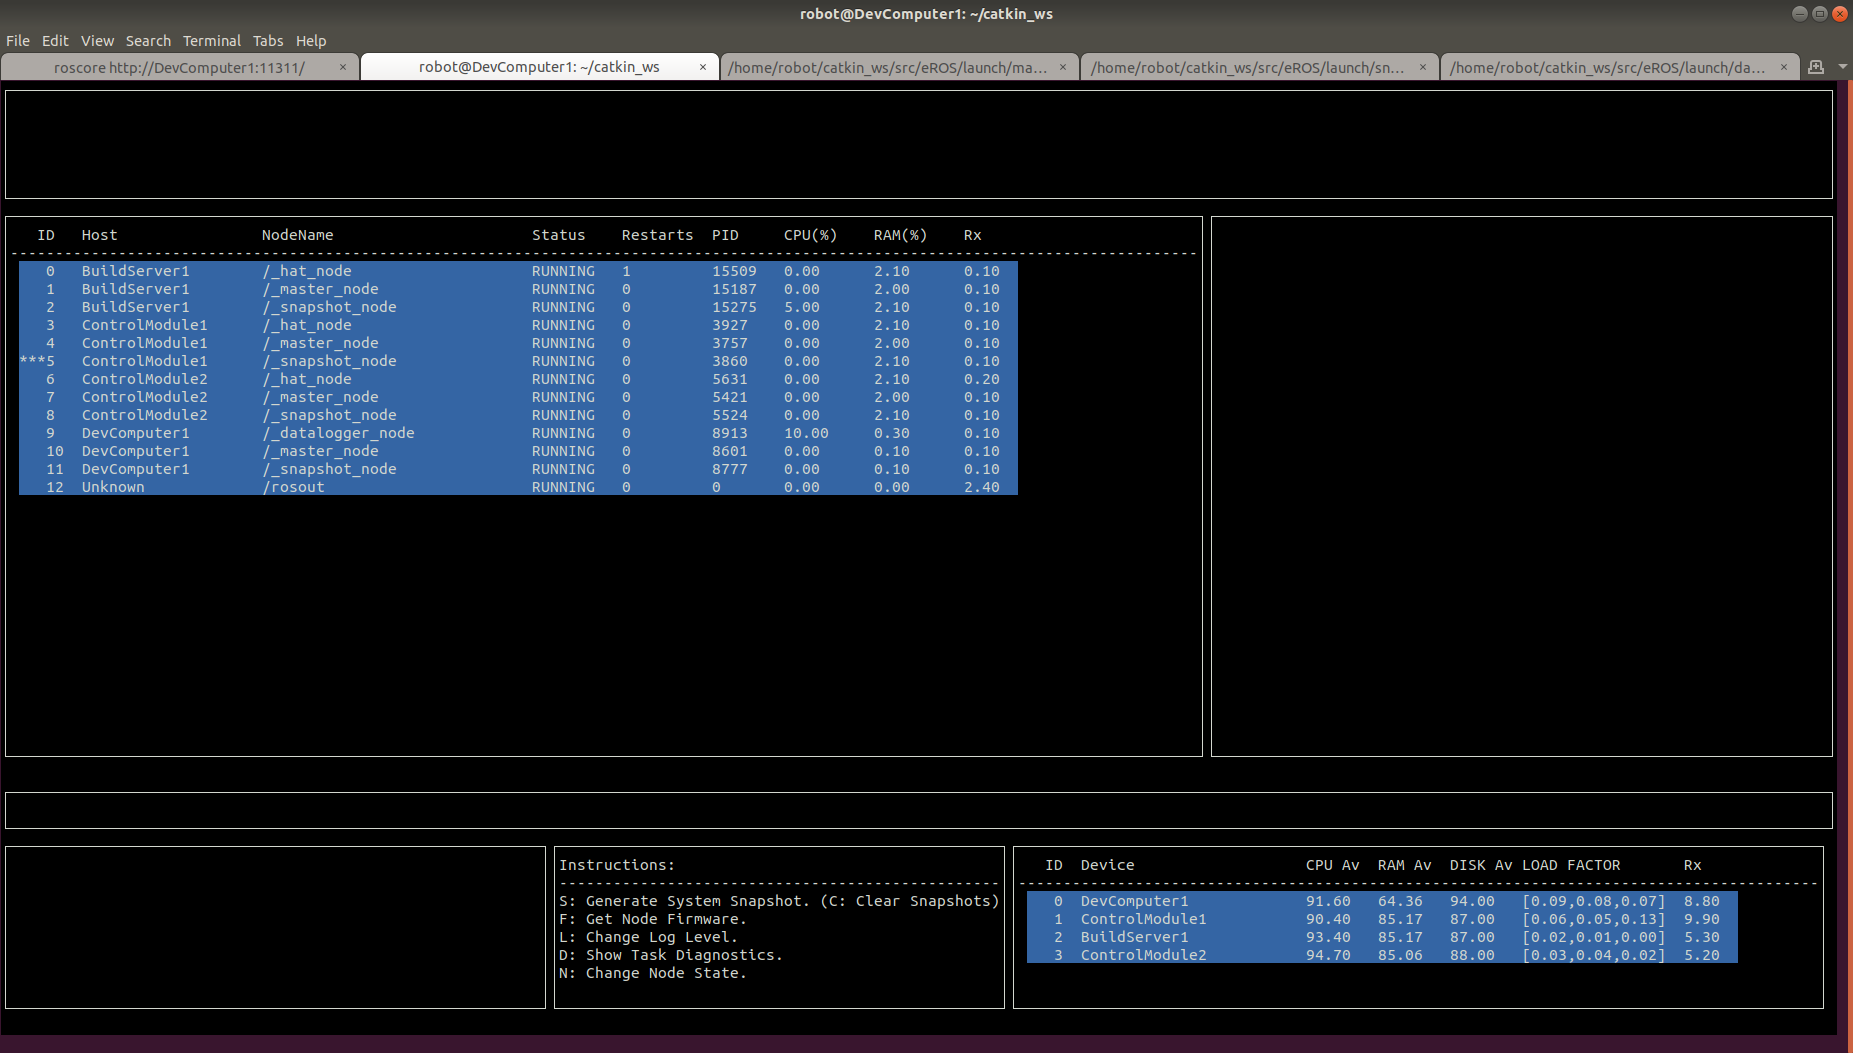
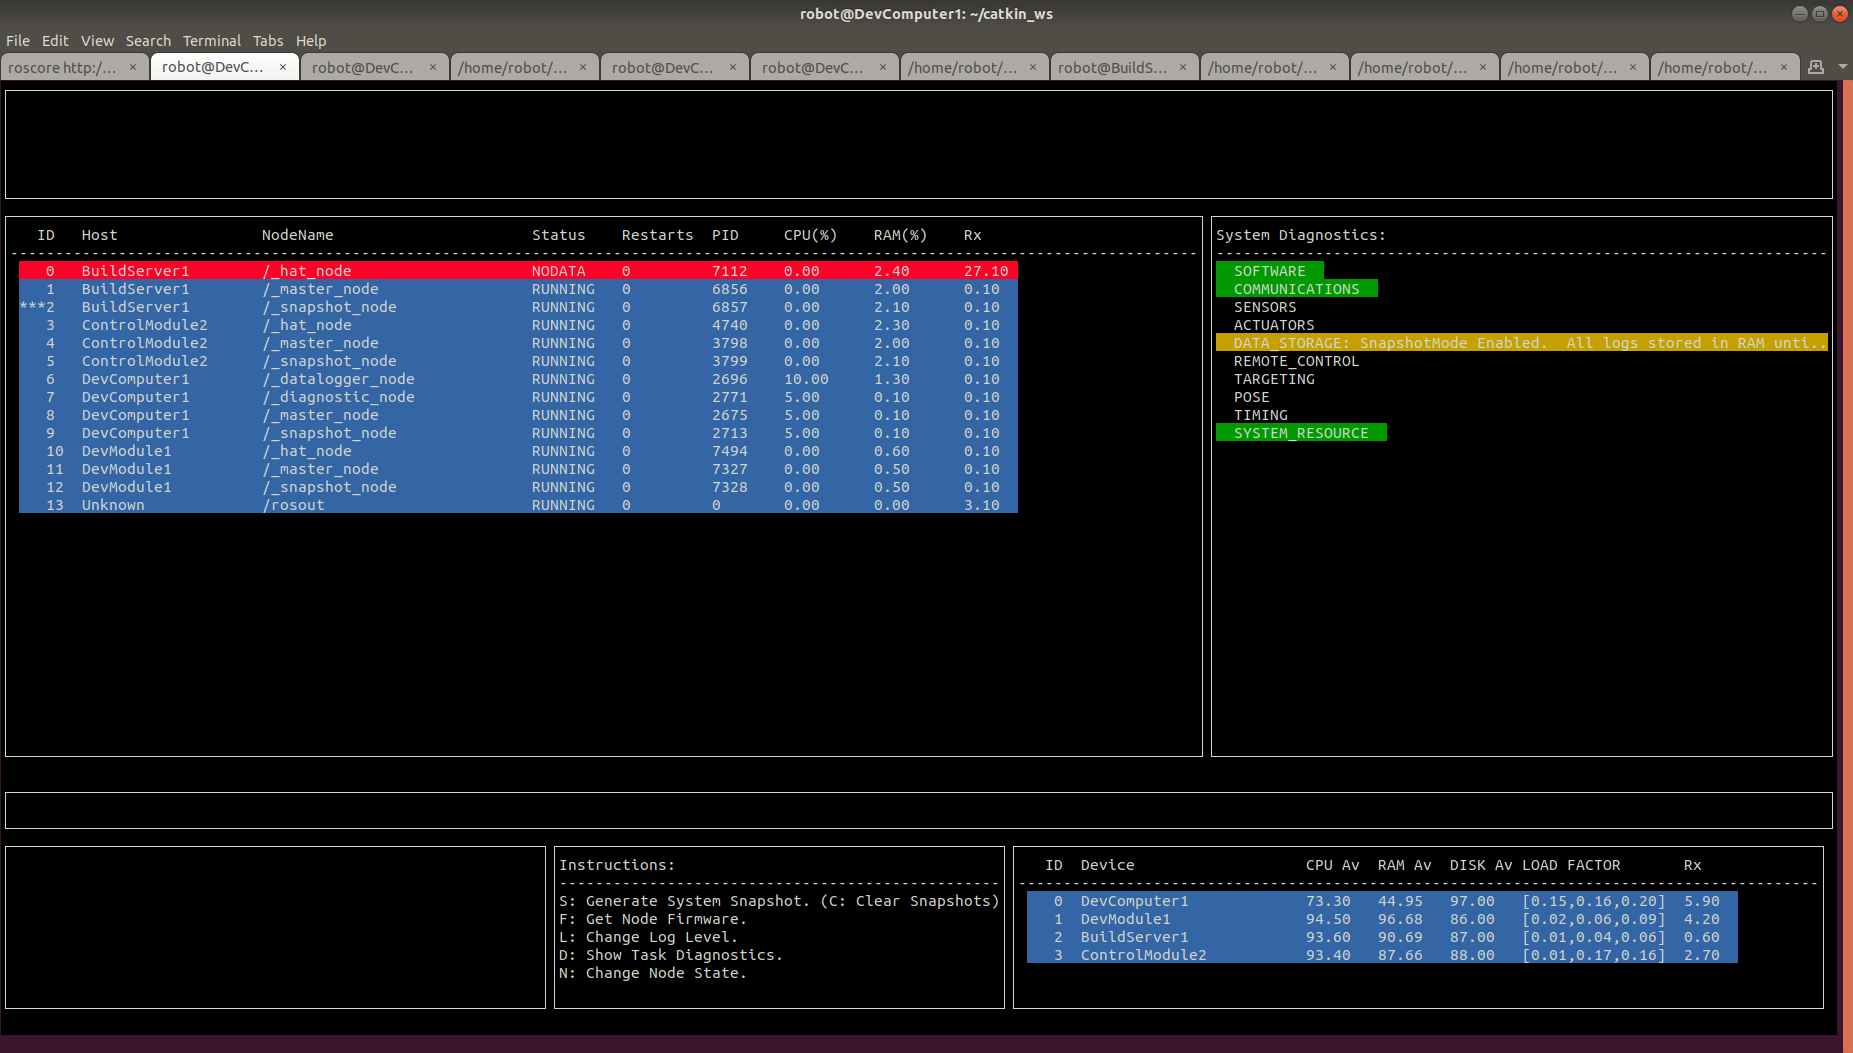
Work Complete. Closed.

diff --git a/nodes/SystemMonitor/SystemMonitorProcess.cpp b/nodes/SystemMonitor/SystemMonitorProcess.cpp
@@ -370,7 +370,12 @@ Diagnostic::DiagnosticDefinition SystemMonitorProcess::update_instructionwindow(
         if (change_log_level_mode == true) {
             instruction_string.push_back("  1,2,3,4,5,6: Select Log Level.");
         }
-        instruction_string.push_back("D: Show Task Diagnostics.");
+        if (show_task_diagnostic_mode == false) {
+            instruction_string.push_back("D: Show Task Diagnostics.");
+        }
+        else {
+            instruction_string.push_back("D: Show System Diagnostics.");
+        }
         instruction_string.push_back("N: Change Node State.");
         if (change_nodestate_mode == true) {
             instruction_string.push_back("  1-9: Select Node State.");
@@ -380,6 +385,7 @@ Diagnostic::DiagnosticDefinition SystemMonitorProcess::update_instructionwindow(
                       i + 3,
                       1,
                       instruction_string.at(i).c_str());
+            wclrtoeol(window_it->second.get_window_reference());
         }
     }
     wclrtobot(window_it->second.get_window_reference());
@@ -411,8 +417,75 @@ Diagnostic::DiagnosticDefinition SystemMonitorProcess::update_diagnosticwindow(
     std::map<std::string, WindowManager>::iterator window_it) {
     Diagnostic::DiagnosticDefinition diag = diagnostic_helper.get_root_diagnostic();
     Color color;
-    if (show_task_diagnostic_mode == true) {
+
+    if (show_task_diagnostic_mode == false) {
+        mvwprintw(window_it->second.get_window_reference(), 1, 1, "System Diagnostics:");
+        wclrtoeol(window_it->second.get_window_reference());
+        std::string dashed(window_it->second.get_screen_coordinates_pixel().width_pix - 2, '-');
+        mvwprintw(window_it->second.get_window_reference(), 2, 1, dashed.c_str());
+        std::string system_diagnostic_topic = "/srv_system_diagnostics";
+        ros::ServiceClient system_diag_client =
+            nodeHandle->serviceClient<eros::srv_get_diagnostics>(system_diagnostic_topic);
+        eros::srv_get_diagnostics srv;
+        srv.request.MinLevel = 0;
+        srv.request.DiagnosticType = 0;
+        if (system_diag_client.call(srv)) {
+            for (std::size_t i = 0; i < srv.response.diag_list.size(); ++i) {
+                Diagnostic::DiagnosticDefinition diag = convert(srv.response.diag_list.at(i));
+                std::string str = "  " + Diagnostic::DiagnosticTypeString(diag.type);
+                if (diag.message == Diagnostic::Message::NODATA) {
+                    color = Color::NO_COLOR;
+                }
+                else {
+                    switch (diag.level) {
+                        case Level::Type::DEBUG: color = Color::NO_COLOR; break;
+                        case Level::Type::INFO: color = Color::GREEN_COLOR; break;
+                        case Level::Type::NOTICE: color = Color::GREEN_COLOR; break;
+                        case Level::Type::WARN:
+                            color = Color::YELLOW_COLOR;
+                            str += ": " + diag.description;
+                            break;
+                        case Level::Type::ERROR:
+                            color = Color::RED_COLOR;
+                            str += ": " + diag.description;
+                            break;
+                        case Level::Type::FATAL:
+                            color = Color::RED_COLOR;
+                            str += ": " + diag.description;
+                            break;
+                        default: color = Color::RED_COLOR; break;
+                    }
+                }
+
+                str += "  ";
+                if (str.size() >
+                    (std::size_t)(window_it->second.get_screen_coordinates_pixel().width_pix - 4)) {
+                    str = str.substr(
+                              0,
+                              (std::size_t)(
+                                  window_it->second.get_screen_coordinates_pixel().width_pix - 4)) +
+                          "...";
+                }
+                wattron(window_it->second.get_window_reference(), COLOR_PAIR(color));
+                mvwprintw(window_it->second.get_window_reference(), i + 3, 1, str.c_str());
+                wclrtoeol(window_it->second.get_window_reference());
+                wattroff(window_it->second.get_window_reference(), COLOR_PAIR(color));
+            }
+        }
+        else {
+            color = Color::YELLOW_COLOR;
+            wattron(window_it->second.get_window_reference(), COLOR_PAIR(color));
+            mvwprintw(window_it->second.get_window_reference(),
+                      3,
+                      1,
+                      "!!! No System Diagostics Available !!!");
+            wclrtoeol(window_it->second.get_window_reference());
+            wattroff(window_it->second.get_window_reference(), COLOR_PAIR(color));
+        }
+    }
+    else {  // if (show_task_diagnostic_mode == true) {
         mvwprintw(window_it->second.get_window_reference(), 1, 1, "Node Diagnostics:");
+        wclrtoeol(window_it->second.get_window_reference());
         std::string dashed(window_it->second.get_screen_coordinates_pixel().width_pix - 2, '-');
         mvwprintw(window_it->second.get_window_reference(), 2, 1, dashed.c_str());
         for (std::size_t i = 0; i < task_diagnostics_to_show.size(); ++i) {
@@ -641,7 +714,7 @@ Diagnostic::DiagnosticDefinition SystemMonitorProcess::update_taskwindow(
     }
     else if ((key_pressed == KEY_d) || (key_pressed == KEY_D)) {
         if (select_task_mode == true) {
-            show_task_diagnostic_mode = true;
+            show_task_diagnostic_mode = !show_task_diagnostic_mode;
             std::map<uint16_t, std::string>::iterator task_name_lookup =
                 task_name_list.find(selected_task_index);
             if (task_name_lookup == task_name_list.end()) {

diff --git a/include/eros/Diagnostic.h b/include/eros/Diagnostic.h
@@ -54,18 +54,19 @@ class Diagnostic
     enum class Message {
         UNKNOWN = 0,              /*!< Uninitialized value. */
         NOERROR = 1,              /*!< No Error.*/
-        UNKNOWN_ERROR = 2,        /*!< Unknown Error Occurred/Error not defined. */
-        INITIALIZING = 3,         /*!< Initializing. */
-        INITIALIZING_ERROR = 4,   /*!< Error occured during initialization. */
-        DROPPING_PACKETS = 5,     /*!< Missing/Dropping Messages. */
-        MISSING_HEARTBEATS = 6,   /*!< Missing Heartbeat Messages. */
-        DEVICE_NOT_AVAILABLE = 7, /*!< Device is not currently Available. */
-        TEMPERATURE_HIGH = 8,     /*!< Temperature too High. */
-        TEMPERATURE_LOW = 9,      /*!< Diagnostic Failed. */
-        RESOURCE_LEAK = 10,       /*!< Resource Leakage occurred. */
-        HIGH_RESOURCE_USAGE = 11, /*!< High Resource Usage. */
-        DIAGNOSTIC_FAILED = 12,   /*! < Diagnostic Failed.*/
-        END_OF_LIST = 13          /*!< Last item of list. Used for Range Checks. */
+        NODATA = 2,               /*!< No Data.*/
+        UNKNOWN_ERROR = 3,        /*!< Unknown Error Occurred/Error not defined. */
+        INITIALIZING = 4,         /*!< Initializing. */
+        INITIALIZING_ERROR = 5,   /*!< Error occured during initialization. */
+        DROPPING_PACKETS = 6,     /*!< Missing/Dropping Messages. */
+        MISSING_HEARTBEATS = 7,   /*!< Missing Heartbeat Messages. */
+        DEVICE_NOT_AVAILABLE = 8, /*!< Device is not currently Available. */
+        TEMPERATURE_HIGH = 9,     /*!< Temperature too High. */
+        TEMPERATURE_LOW = 10,     /*!< Diagnostic Failed. */
+        RESOURCE_LEAK = 11,       /*!< Resource Leakage occurred. */
+        HIGH_RESOURCE_USAGE = 12, /*!< High Resource Usage. */
+        DIAGNOSTIC_FAILED = 13,   /*! < Diagnostic Failed.*/
+        END_OF_LIST = 14          /*!< Last item of list. Used for Range Checks. */
     };
     //! Convert Diagnostic::Message to human readable string
     /*!
@@ -76,6 +77,7 @@ class Diagnostic
         switch (v) {
             case Diagnostic::Message::UNKNOWN: return "UNKNOWN"; break;
             case Diagnostic::Message::NOERROR: return "NOERROR"; break;
+            case Diagnostic::Message::NODATA: return "NODATA"; break;
             case Diagnostic::Message::UNKNOWN_ERROR: return "UNKNOWN_ERROR"; break;
             case Diagnostic::Message::INITIALIZING: return "INITIALIZING"; break;
             case Diagnostic::Message::INITIALIZING_ERROR: return "INITIALIZING_ERROR"; break;

diff --git a/nodes/DiagnosticNode/DiagnosticNode.cpp b/nodes/DiagnosticNode/DiagnosticNode.cpp
@@ -22,7 +22,24 @@ void DiagnosticNode::diagnostic_Callback(const eros::diagnostic::ConstPtr &t_msg
     eros::diagnostic eros_diag = BaseNodeProcess::convert_fromptr(t_msg);
     Diagnostic::DiagnosticDefinition diag = process->convert(eros_diag);
     process->new_external_diagnostic(diag);
-    // printf("%s %s\n", t_msg->DeviceName.c_str(), t_msg->NodeName.c_str());
+}
+bool DiagnosticNode::system_diagnostics_service(eros::srv_get_diagnostics::Request &req,
+                                                eros::srv_get_diagnostics::Response &res) {
+    if ((req.MinLevel == 0) && (req.DiagnosticType == 0)) {
+        for (uint8_t i = 1; i < (uint8_t)(Diagnostic::DiagnosticType::END_OF_LIST); ++i) {
+            if ((Diagnostic::DiagnosticType)i == Diagnostic::DiagnosticType::UNKNOWN_TYPE) {
+                continue;
+            }
+            res.diag_list.push_back(
+                convert(process->get_worst_diagnostic((Diagnostic::DiagnosticType)(i))));
+        }
+        return true;
+    }
+    else {
+        logger->log_warn("Unsupported Srv Query: " + std::to_string(req.MinLevel) + " " +
+                         std::to_string(req.DiagnosticType));
+        return false;
+    }
 }
 bool DiagnosticNode::changenodestate_service(eros::srv_change_nodestate::Request &req,
                                              eros::srv_change_nodestate::Response &res) {
@@ -95,6 +112,9 @@ Diagnostic::DiagnosticDefinition DiagnosticNode::read_launchparameters() {
 }
 Diagnostic::DiagnosticDefinition DiagnosticNode::finish_initialization() {
     Diagnostic::DiagnosticDefinition diag = diagnostic;
+    std::string srv_system_diagnostics_topic = "/srv_system_diagnostics";
+    system_diagnostics_srv = n->advertiseService(
+        srv_system_diagnostics_topic, &DiagnosticNode::system_diagnostics_service, this);
     std::string srv_nodestate_topic = "/" + node_name + "/srv_nodestate_change";
     nodestate_srv =
         n->advertiseService(srv_nodestate_topic, &DiagnosticNode::changenodestate_service, this);

diff --git a/src/BaseNode.cpp b/src/BaseNode.cpp
@@ -373,6 +373,19 @@ eros::diagnostic BaseNode::convert(Diagnostic::DiagnosticDefinition diag_def) {
     diag.Description = diag_def.description;
     return diag;
 }
+Diagnostic::DiagnosticDefinition convert(eros::diagnostic diag_def) {
+    Diagnostic::DiagnosticDefinition diag;
+    diag.device_name = diag_def.DeviceName;
+    diag.node_name = diag_def.NodeName;
+    diag.system = (System::MainSystem)diag_def.System;
+    diag.subsystem = (System::SubSystem)diag_def.SubSystem;
+    diag.component = (System::Component)diag_def.Component;
+    diag.type = (Diagnostic::DiagnosticType)diag_def.DiagnosticType;
+    diag.level = (Level::Type)diag_def.Level;
+    diag.message = (Diagnostic::Message)diag_def.DiagnosticMessage;
+    diag.description = diag_def.Description;
+    return diag;
+}
 eros::resource BaseNode::convert(ResourceMonitor::ResourceInfo res_info) {
     eros::resource res;
     res.Name = node_name;

diff --git a/nodes/DiagnosticNode/DiagnosticNode.h b/nodes/DiagnosticNode/DiagnosticNode.h
@@ -61,6 +61,8 @@ class DiagnosticNode : public BaseNode
     bool changenodestate_service(eros::srv_change_nodestate::Request& req,
                                  eros::srv_change_nodestate::Response& res);
     void system_commandAction_Callback(const eros::system_commandGoalConstPtr& goal);
+    bool system_diagnostics_service(eros::srv_get_diagnostics::Request& req,
+                                    eros::srv_get_diagnostics::Response& res);
     void command_Callback(const eros::command::ConstPtr& t_msg);
     void diagnostic_Callback(const eros::diagnostic::ConstPtr& t_msg);
 
@@ -69,6 +71,7 @@ class DiagnosticNode : public BaseNode
     DiagnosticNodeProcess* process;
     actionlib::SimpleActionServer<eros::system_commandAction> system_command_action_server;
     std::vector<ros::Subscriber> diagnostic_subs;
+    ros::ServiceServer system_diagnostics_srv;
 };
 
 #endif  // DiagnosticNode_H

diff --git a/nodes/DiagnosticNode/DiagnosticNodeProcess.cpp b/nodes/DiagnosticNode/DiagnosticNodeProcess.cpp
@@ -64,7 +64,7 @@ Diagnostic::DiagnosticDefinition DiagnosticNodeProcess::get_worst_diagnostic(
                                                   System::SubSystem::ROBOT_CONTROLLER,
                                                   System::Component::DIAGNOSTIC,
                                                   type,
-                                                  Diagnostic::Message::DROPPING_PACKETS,
+                                                  Diagnostic::Message::NODATA,
                                                   Level::Type::INFO,
                                                   "No Diagnostics Received Yet.");
             return diag;

diff --git a/nodes/SystemMonitor/SystemMonitorProcess.h b/nodes/SystemMonitor/SystemMonitorProcess.h
@@ -144,7 +144,8 @@ class SystemMonitorProcess : public BaseNodeProcess
         YELLOW_COLOR = 3,
         GREEN_COLOR = 4,
         BLUE_COLOR = 5,
-        END_OF_LIST = 6
+        GRAY_COLOR = 6,
+        END_OF_LIST = 7
     };
     enum class TaskType { UNKNOWN = 0, EROS = 1, NON_EROS = 2 };
     enum class TaskFieldColumn {

diff --git a/include/eros/BaseNode.h b/include/eros/BaseNode.h
@@ -175,6 +175,7 @@ class BaseNode
         return etime;
     }
     eros::diagnostic convert(Diagnostic::DiagnosticDefinition diag_def);
+    Diagnostic::DiagnosticDefinition convert(eros::diagnostic diag_def);
 
     eros::resource convert(ResourceMonitor::ResourceInfo res_info);
     // Message Functions
